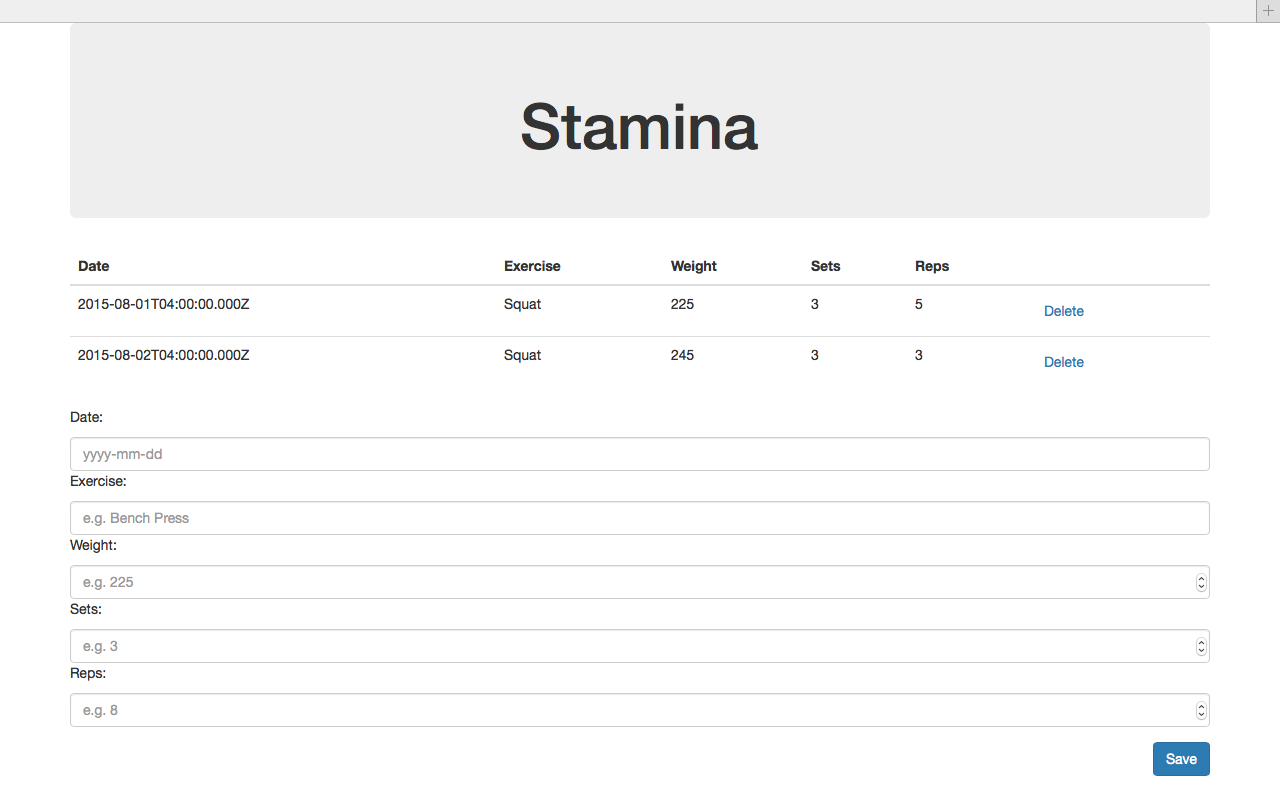
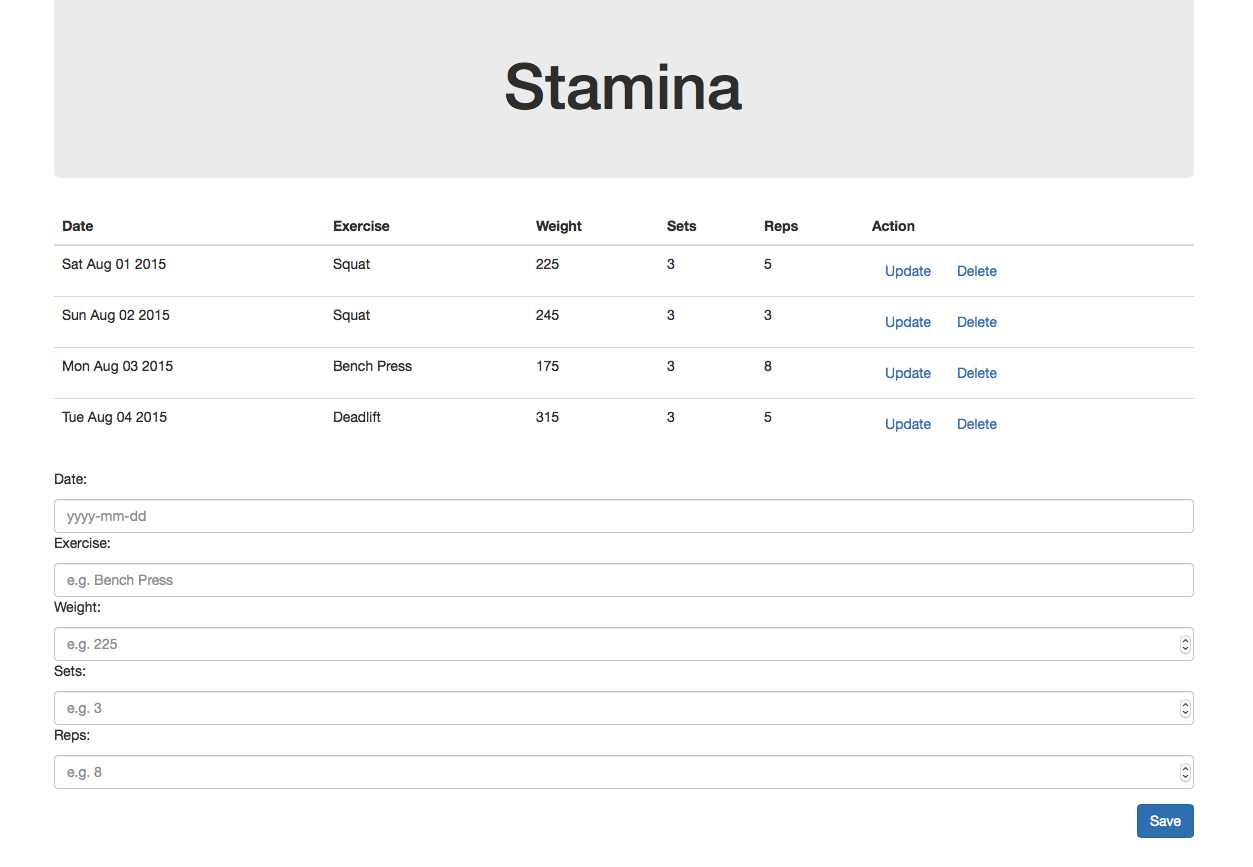
add support for updating workouts and clean up view

diff --git a/public/core.js b/public/core.js
@@ -2,30 +2,77 @@ var stamina = angular.module('stamina', []);
 
 stamina.controller('mainController', ['$scope', '$http', function($scope, $http) {
   $scope.formData = {};
+  $scope.updateFlag = false;
 
-  // landing page: get all workouts and display
-  $http.get('/api/workouts')
-    .success(function(data) {
-      $scope.workouts = data;
-      console.log(data);
-    })
-    .error(function(data) {
-      console.log('Error: ' + data);
-    });
+  // GET all workouts from REST API
+  $scope.getWorkouts = function() {
+    $http.get('/api/workouts')
+      .success(function(data) {
+        console.log(data);
+        $scope.workouts = data;
+        // convert dates
+        for (var i = 0; i < $scope.workouts.length; i++) {
+          $scope.workouts[i].date = new Date($scope.workouts[i].date).toDateString();
+        }
+      })
+      .error(function(data) {
+        console.log('Error: ' + data);
+      });
+  };
+  $scope.getWorkouts();
 
-  // when submitting add form, send text to Express API
+  // when submitting add form, POST to API
   $scope.createWorkout = function() {
     $http.post('/api/workouts', $scope.formData)
       .success(function(data) { 
         console.log(data);
         $scope.formData = {}; // clear form data
         // append newly created workout (given in response) 
+        data.date = new Date(data.date).toDateString();
         $scope.workouts.push(data);
       })
       .error(function(data) {
         console.log('Error: ' + data);
       });
   };
+
+  // find workout by ID and set form data
+  $scope.updateWorkout = function(id) {
+    for (var i = 0; i < $scope.workouts.length; i++) {
+      if ($scope.workouts[i]._id === id) {
+        $scope.workoutIndex = i;
+        $scope.formData = {
+          date: new Date($scope.workouts[i].date),
+          exercise: $scope.workouts[i].exercise,
+          weight: $scope.workouts[i].weight,
+          sets: $scope.workouts[i].sets,
+          reps: $scope.workouts[i].reps
+        };
+        $scope.updateFlag = true;
+      }
+    }
+  };
+
+  // update workout by PUT request
+  $scope.saveUpdated = function() {
+    $http.put('/api/workouts/'+$scope.workouts[$scope.workoutIndex]._id, $scope.formData)
+      .success(function(data) {
+        console.log(data);
+        $scope.formData = {};
+        $scope.workouts[$scope.workoutIndex] = {
+          date: new Date(data.date).toDateString(),
+          exercise: data.exercise,
+          weight: data.weight,
+          sets: data.sets,
+          reps: data.reps
+        };
+        $scope.updateFlag = false;
+      })
+      .error(function(data) {
+        console.log('Error: ' + data);
+      });
+  };
+
 
   // delete workout
   $scope.deleteWorkout = function(id) {
@@ -43,4 +90,15 @@ stamina.controller('mainController', ['$scope', '$http', function($scope, $http)
         console.log('Error: ' + data);
       });
   };
+
+  // decide whether to POST or PUT on save
+  $scope.decideAction = function() {
+    if ($scope.updateFlag) {
+      $scope.saveUpdated();
+    }
+    else {
+      $scope.createWorkout();
+    }
+  };
+
 }]);

diff --git a/routes/workouts.js b/routes/workouts.js
@@ -89,33 +89,30 @@ router.route('/:id')
     });
   });
 
-// PUT to update workout by ID
+// PUT to update workout
 router.put('/:id', function(req, res) {
-  // get REST of form values. (depend on name attributes)
   var newDate = req.body.date;
   var newExercise = req.body.exercise;
   var newWeight = req.body.weight;
   var newSets = req.body.sets;
   var newReps = req.body.reps;
 
-  // find workout by ID
+  // find workout by ID and update
   mongoose.model('Workout').findById(req.id, function (err, workout) {
-    // update workout
-    workout.update({
-      date: newDate,
-      exercise: newExercise,
-      weight: newWeight,
-      sets: newSets,
-      reps: newReps
-    },
-    function (err, workoutID) {
+    workout.date = req.body.date;
+    workout.exercise = req.body.exercise;
+    workout.weight = req.body.weight;
+    workout.sets = req.body.sets;
+    workout.rep = req.body.reps;
+
+    workout.save(function (err) {
       if (err) {
         res.send('PUT Error: There was a problem updating: ' + err);
       }
       else {
-        res.json(workout);
+        res.json(workout)
       }
-    });
+    });  
   });
 });
 

diff --git a/README.md b/README.md
@@ -9,10 +9,9 @@ All development for this project has been done locally up to this juncture. The 
 
 ### Getting started
 1. Go to the `stamina` directory in your terminal. Install dependencies. `npm install`
-2. Open a new terminal window, start mongod. `mongod`
-3. Open a new terminal window, start the database. `mongo stamina_db`
-4. Back in the `stamina` directory, start the Node server. `npm start`
-5. In your browser, navigate to http://localhost:3000
+2. Open a new terminal window, start the mongo daemon. `mongod`
+3. Back in the `stamina` directory, start the Node server. `npm start`
+4. In your browser, navigate to http://localhost:3000
 
 Note: Terminal multiplexers such as tmux can make local development easier in this regard. 
 
